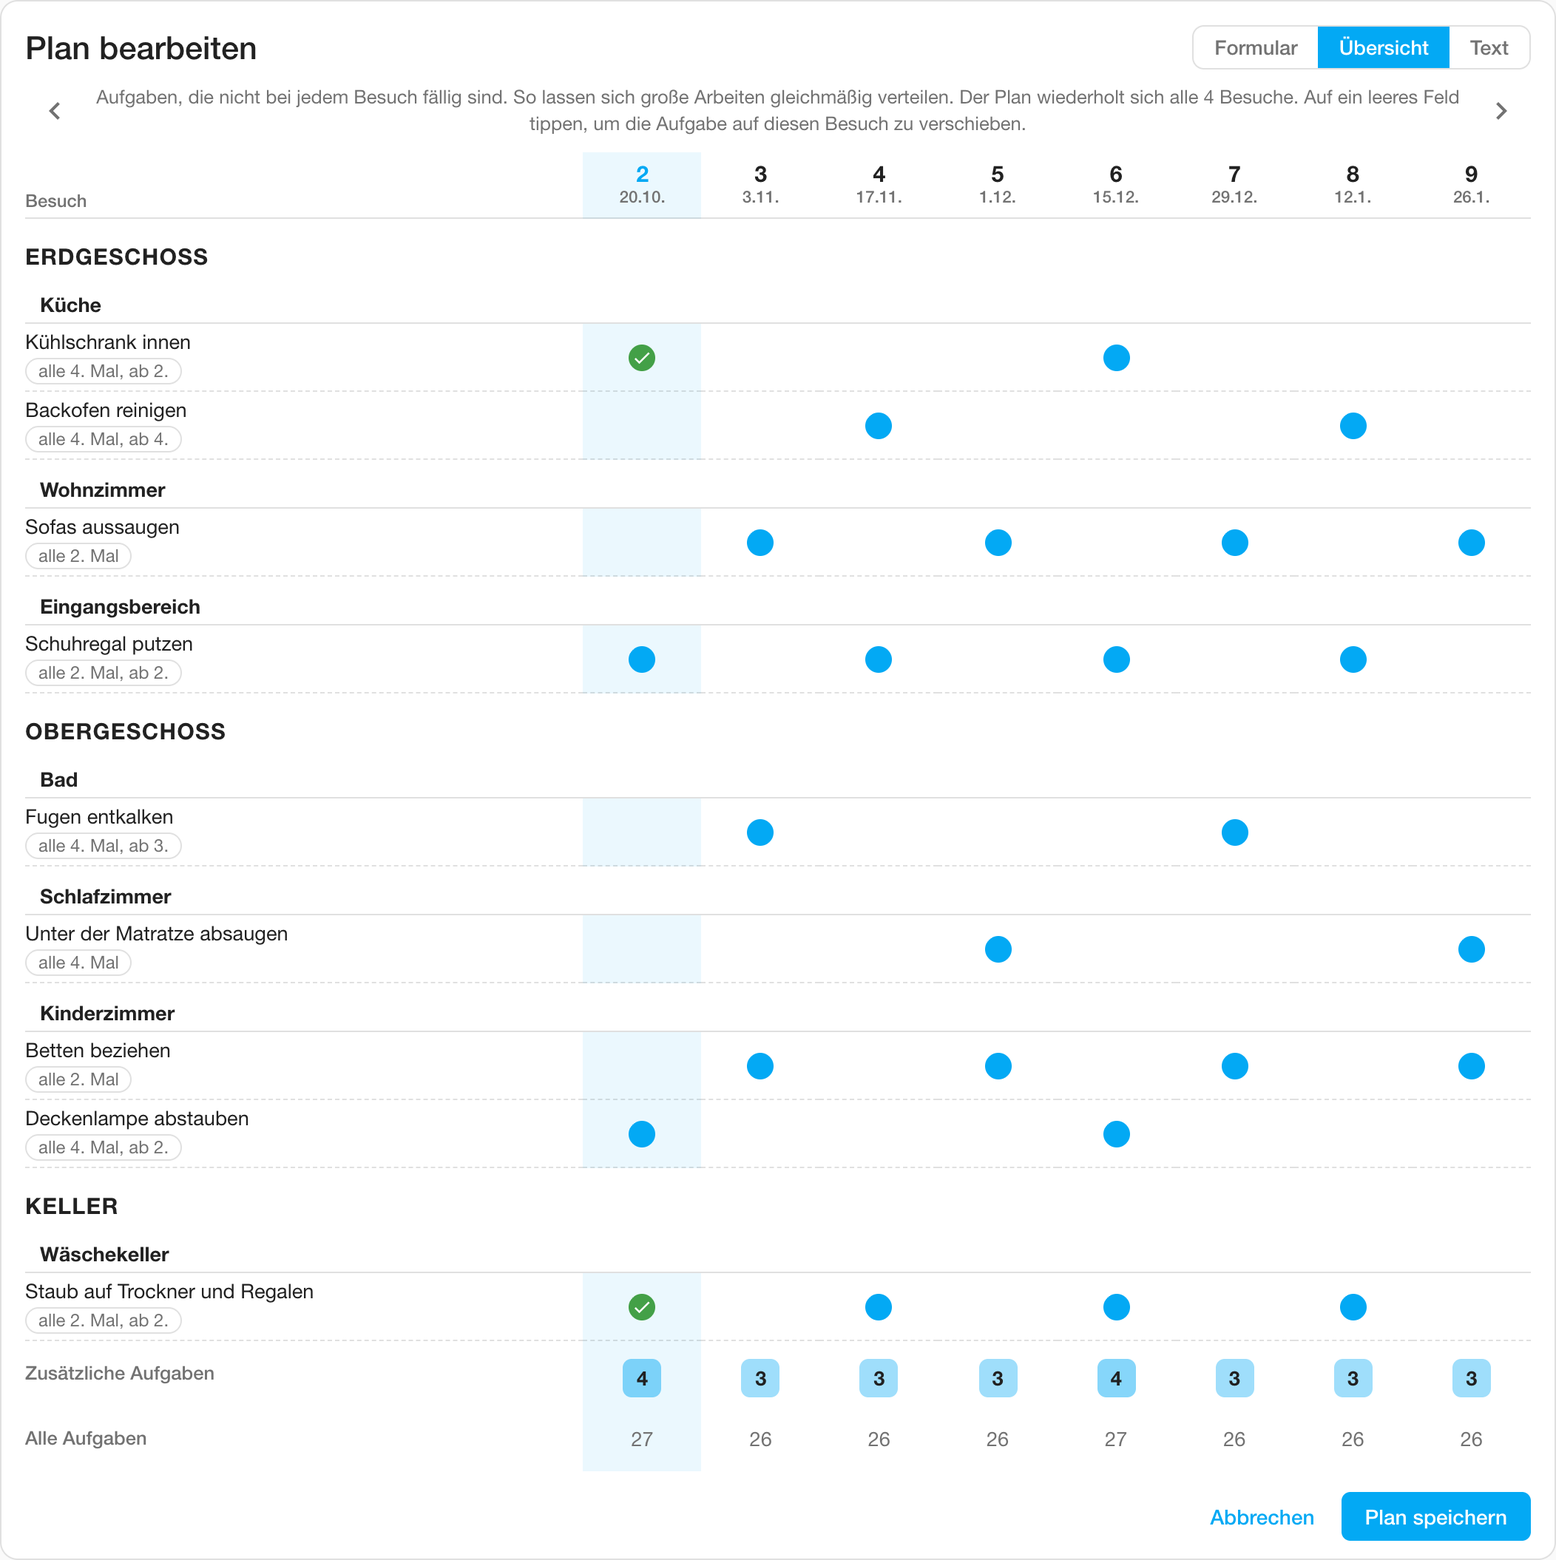
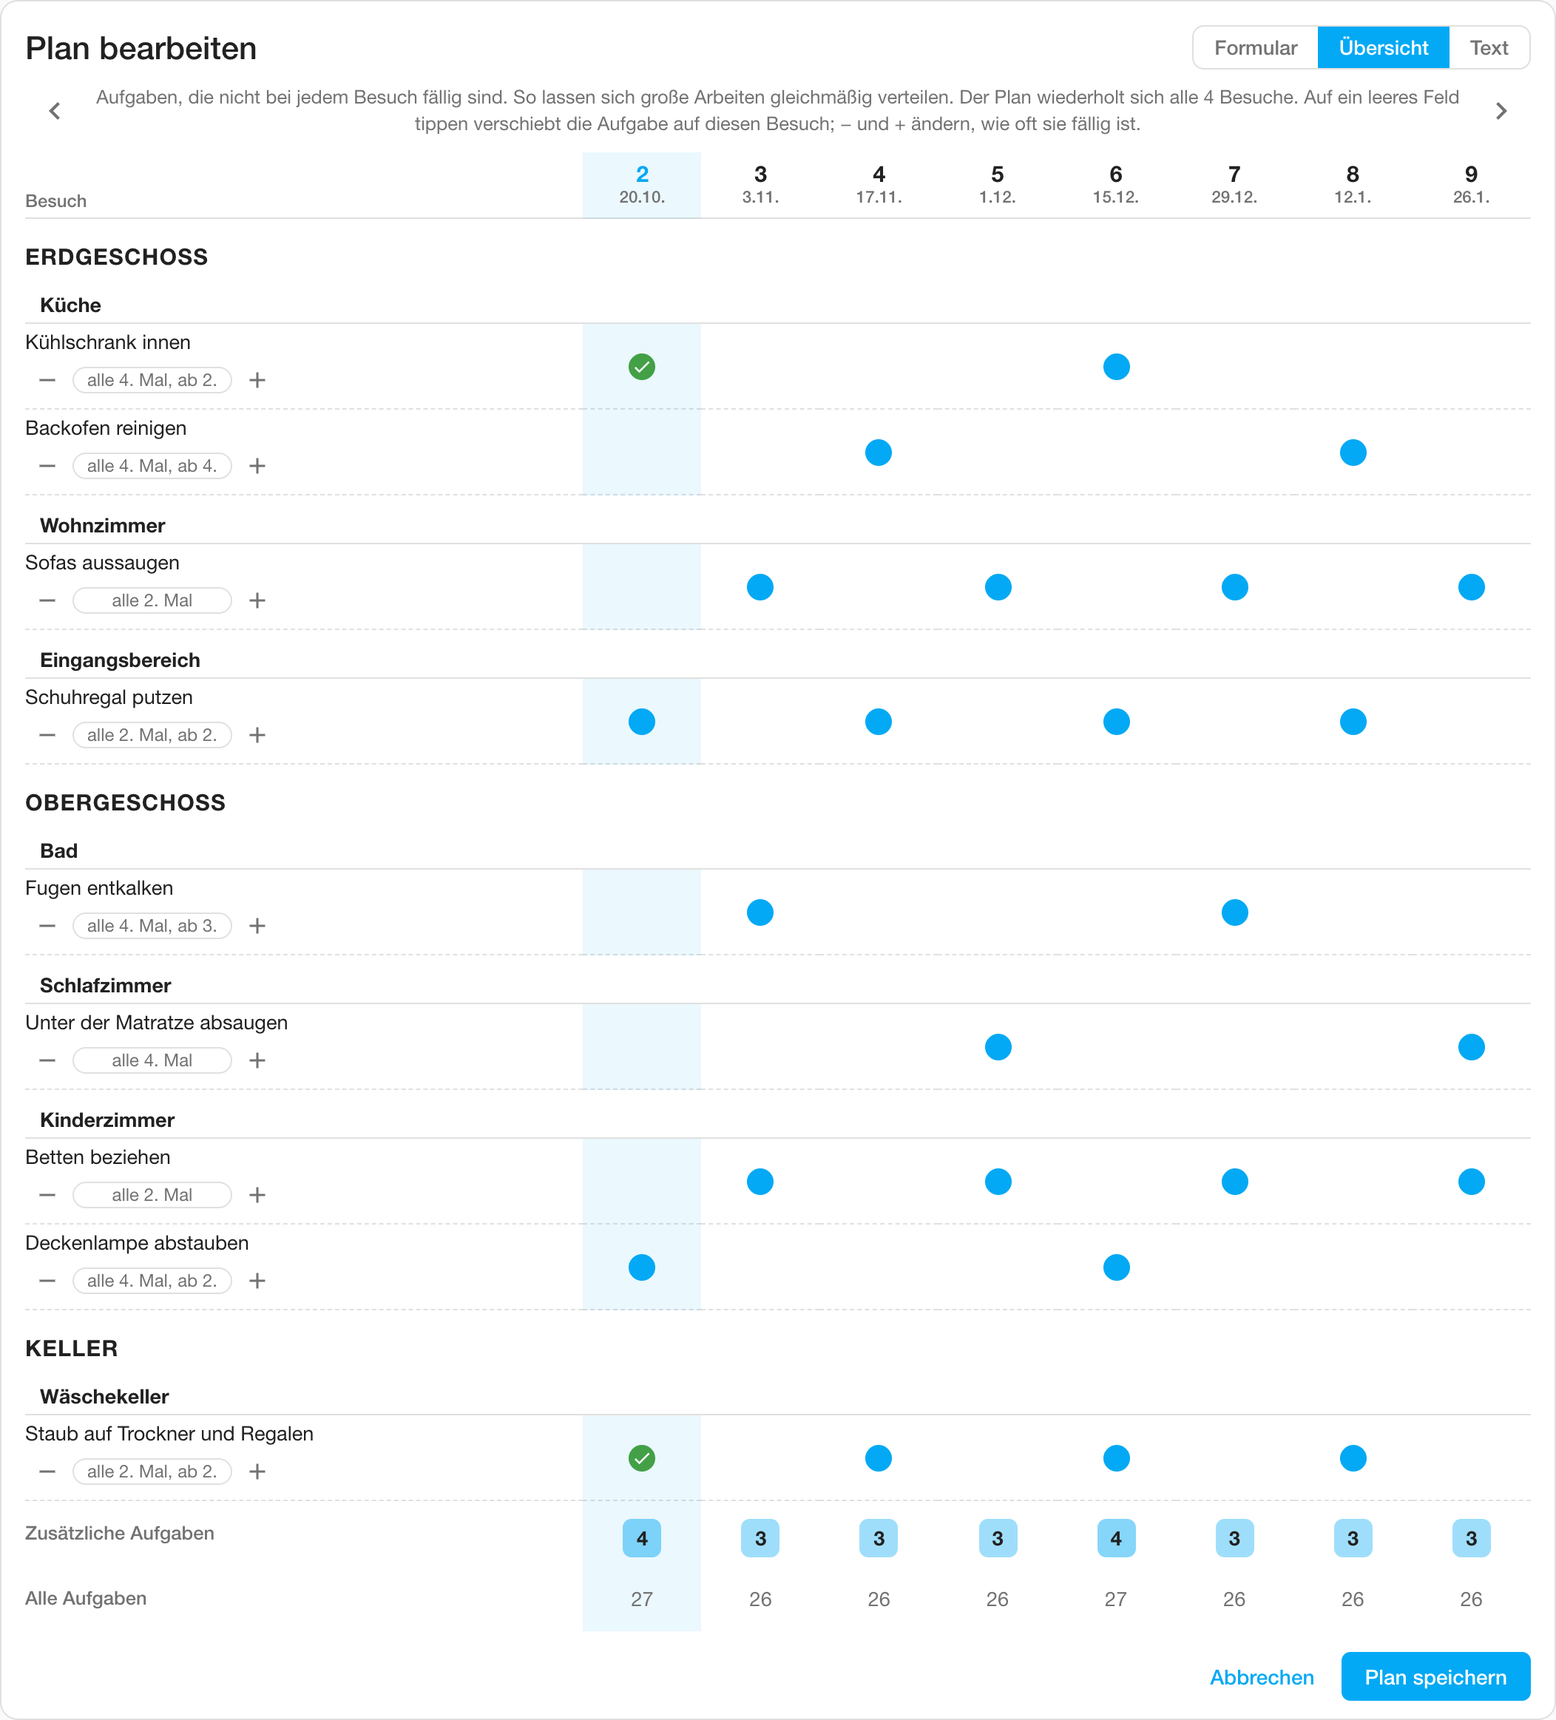
Planner interval buttons, fully folded list with saved fold state
Planner (Overview tab in the editor)
- − and + next to a task's frequency change its interval; the start
  visit
  is kept, dots, cycle and load rows update live
- Tasks changed there stay listed until the editor closes, even when set
  to every time ("jedes Mal, ab 2.")
- Household overview stays read-only

Tick-off list
- Opens fully folded, floors included
- Open floors and rooms are saved per plan in localStorage, so each
  device
  keeps its own state across reloads and visits; falls back to memory
  without storage
- Auto-fold on completion kept; collapse/expand all includes floors

Tests, README, screenshots, version 0.9.0

diff --git a/custom_components/cleaning_plan/frontend/cleaning-plan-card.js b/custom_components/cleaning_plan/frontend/cleaning-plan-card.js
@@ -19,7 +19,7 @@
  *   - Text: the raw plan text, validated on the server while typing.
  */
 
-const CARD_VERSION = "0.7.0";
+const CARD_VERSION = "0.9.0";
 const CARD_TYPE = "cleaning-plan-visit-card";
 const EDITOR_TYPE = "cleaning-plan-visit-card-editor";
 const WS = "cleaning_plan";
@@ -173,7 +173,9 @@ const STRINGS = {
     tabOverview: "Overview",
     back: "Back",
     ovIntro: "Tasks that are not due on every visit. Use this to spread heavy jobs evenly.",
-    ovEditHint: "Tap an empty cell to move that task's turn to this visit.",
+    ovEditHint: "Tap an empty cell to move that task's turn to this visit; − and + change how often it is due.",
+    ovMoreOften: "More often",
+    ovLessOften: "Less often",
     ovNone: "Every task is due on every visit. Set a task to \"every 2. visit\" or more to plan it here.",
     ovVisit: "Visit",
     ovExtra: "Extra tasks",
@@ -309,7 +311,9 @@ const STRINGS = {
     tabOverview: "Übersicht",
     back: "Zurück",
     ovIntro: "Aufgaben, die nicht bei jedem Besuch fällig sind. So lassen sich große Arbeiten gleichmäßig verteilen.",
-    ovEditHint: "Auf ein leeres Feld tippen, um die Aufgabe auf diesen Besuch zu verschieben.",
+    ovEditHint: "Auf ein leeres Feld tippen verschiebt die Aufgabe auf diesen Besuch; − und + ändern, wie oft sie fällig ist.",
+    ovMoreOften: "Öfter",
+    ovLessOften: "Seltener",
     ovNone: "Alle Aufgaben sind bei jedem Besuch fällig. Eine Aufgabe auf „alle 2. Mal“ oder mehr stellen, um sie hier zu planen.",
     ovVisit: "Besuch",
     ovExtra: "Zusätzliche Aufgaben",
@@ -365,7 +369,7 @@ const isoOf = (n) => numToDate(n).toISOString().slice(0, 10);
 const ISO_RE = /^\d{4}-\d{2}-\d{2}$/;
 
 const freqLabel = (task, t) => {
-  if (task.every === 1) return t.freqEvery;
+  if (task.every === 1) return task.from > 1 ? t.freqEvery + t.freqFrom(task.from) : t.freqEvery;
   const base = t.freqN(task.every);
   return task.from > 1 ? base + t.freqFrom(task.from) : base;
 };
@@ -581,7 +585,7 @@ const overviewCount = (locations) => Math.min(16, Math.max(8, cycleLength(locati
  * Returns the visits shown, their dates, the irregular tasks grouped by floor and location
  * with a due flag per visit, and per visit the count of irregular ("extra") and all tasks.
  */
-function buildOverview(plan, firstVisit, count) {
+function buildOverview(plan, firstVisit, count, keep = () => false) {
   const visits = Array.from({ length: count }, (_, i) => firstVisit + i);
   const extra = visits.map(() => 0);
   const total = visits.map(() => 0);
@@ -591,8 +595,8 @@ function buildOverview(plan, firstVisit, count) {
     for (const task of loc.tasks) {
       const due = visits.map((v) => isDue(task, v));
       due.forEach((d, i) => d && total[i]++);
-      if (!isIrregular(task)) continue;
-      due.forEach((d, i) => d && extra[i]++);
+      if (isIrregular(task)) due.forEach((d, i) => d && extra[i]++);
+      else if (!keep(task)) continue;
       rows.push({ task, due });
     }
     if (rows.length) groups.push({ floor: loc.floor || "", name: loc.name, rows });
@@ -614,10 +618,11 @@ class CleaningPlanVisitCard extends HTMLElement {
       this._busy = new Set(); // keys of ticks being saved
       this._data = null;
       this._error = null;
-      this._fold = {}; // "visit-iso|location" -> true (folded) / false (open); unset = folded
-      this._wasDone = {}; // "visit-iso|location" -> was fully done at the last render
+      // Open floors and rooms of the tick-off list; everything else is folded.
+      // Saved per plan in this browser's localStorage, see _loadOpen.
+      this._open = {};
+      this._wasDone = {}; // "visit-iso" + key -> was fully done at the last render
       this._visibleLocs = [];
-      this._floorFold = {}; // "visit-iso|F|floor" -> true when folded; floors start open
       this._visibleFloors = [];
       this._view = "list"; // "list" | "overview"
       this._ovShift = 0; // overview window, in pages of visits
@@ -712,6 +717,7 @@ class CleaningPlanVisitCard extends HTMLElement {
         entryId = plans[0].entry_id;
       }
       this._entryId = entryId;
+      this._loadOpen();
       const unsub = await this._hass.connection.subscribeMessage((msg) => this._onData(token, msg), {
         type: `${WS}/subscribe`,
         entry_id: entryId,
@@ -1077,7 +1083,12 @@ class CleaningPlanVisitCard extends HTMLElement {
       if (n && !window.confirm(this._t.confirmDeleteLoc(loc.name.trim(), n))) return;
       this._floor(fi).locations.splice(li, 1);
     } else if (act === "f-task-del") this._loc(fi, li).tasks.splice(ti, 1);
-    else if (act === "f-ov-set") {
+    else if (act === "f-ov-every") {
+      // Overview: change the interval; the start visit stays, so the next turn is kept where possible
+      const task = this._loc(fi, li).tasks[ti];
+      task.every = Math.min(99, Math.max(1, task.every + Number(el.dataset.delta)));
+      (ed.ovPinned ||= new Set()).add(task.id);
+    } else if (act === "f-ov-set") {
       // Overview: move the task's turn so it is due on visit v (same interval)
       const task = this._loc(fi, li).tasks[ti];
       task.from = ((Number(el.dataset.v) - 1) % task.every) + 1;
@@ -1110,15 +1121,14 @@ class CleaningPlanVisitCard extends HTMLElement {
     else if (act === "example") this._insertExample();
     else if (act === "save") this._savePlan();
     else if (act === "fold") {
-      this._fold[el.dataset.loc] = el.dataset.folded !== "1";
+      this._setOpen(el.dataset.loc, el.dataset.folded === "1");
       this._render();
     } else if (act === "fold-all") {
-      const to = el.dataset.to === "1";
-      this._visibleLocs.forEach((k) => (this._fold[k] = to));
-      if (!to) this._visibleFloors.forEach((k) => (this._floorFold[k] = false));
+      const open = el.dataset.to !== "1"; // data-to="1" means collapse
+      [...this._visibleFloors, ...this._visibleLocs].forEach((k) => this._setOpen(k, open));
       this._render();
     } else if (act === "ffold") {
-      this._floorFold[el.dataset.key] = !this._floorFold[el.dataset.key];
+      this._setOpen(el.dataset.key, !this._isOpen(el.dataset.key));
       this._render();
     } else if (act === "supply") this._toggleSupply(el);
     else if (act === "flag") this._openProblem(el);
@@ -1126,6 +1136,35 @@ class CleaningPlanVisitCard extends HTMLElement {
     else if (act === "p-cancel") ((this._pedit = null), this._render());
     else if (act === "p-send") this._sendProblem();
     else if (act === "p-withdraw" || act === "p-resolve") this._resolveProblem(el.dataset.id);
+  }
+
+  /* ----- fold state of the tick-off list, kept per plan in localStorage ----- */
+
+  get _openStorageKey() {
+    return `cleaning-plan-card.open.${this._entryId}`;
+  }
+
+  _loadOpen() {
+    try {
+      this._open = JSON.parse(window.localStorage.getItem(this._openStorageKey)) || {};
+    } catch (e) {
+      this._open = {}; // no storage (private mode, embedded views): fold state lives in memory
+    }
+  }
+
+  _isOpen(key) {
+    return this._open[key] === true;
+  }
+
+  _setOpen(key, open) {
+    if (open === this._isOpen(key)) return;
+    if (open) this._open[key] = true;
+    else delete this._open[key];
+    try {
+      window.localStorage.setItem(this._openStorageKey, JSON.stringify(this._open));
+    } catch (e) {
+      /* keep it in memory */
+    }
   }
 
   /* ----- rendering ----- */
@@ -1251,22 +1290,24 @@ class CleaningPlanVisitCard extends HTMLElement {
         floor,
         name: loc.name.trim(),
         tasks: loc.tasks
-          .map((k, ti) => ({ name: k.name.trim(), every: k.every, from: k.from, ref: { fi, li, ti } }))
+          .map((k, ti) => ({ name: k.name.trim(), every: k.every, from: k.from, ref: { fi, li, ti, id: k.id } }))
           .filter((k) => k.name && ok(k.every) && ok(k.from)),
       })),
     };
     const today = isoToNum((this._data && this._data.today) || isoOf(Math.floor(Date.now() / 86400000)));
     const diff = today - plan.start;
     const current = diff <= 0 ? 1 : Math.ceil(diff / plan.rhythm) + 1;
-    return this._overviewHTML(plan, current, today, this._ed.ovShift || 0, true);
+    // Tasks whose interval was changed here stay in the table, even when set to "every time"
+    const pinned = this._ed.ovPinned || new Set();
+    return this._overviewHTML(plan, current, today, this._ed.ovShift || 0, true, (task) => pinned.has(task.ref.id));
   }
 
-  _overviewHTML(plan, current, today, shift, editable) {
+  _overviewHTML(plan, current, today, shift, editable, keep) {
     const t = this._t;
     const count = overviewCount(plan.locations);
     const cycle = cycleLength(plan.locations);
     const first = Math.max(1, current + shift * count);
-    const ov = buildOverview(plan, first, count);
+    const ov = buildOverview(plan, first, count, keep);
     if (!ov.groups.length) return `<div class="msg">${esc(t.ovNone)}</div>`;
 
     const doneSet = new Set();
@@ -1311,8 +1352,20 @@ class CleaningPlanVisitCard extends HTMLElement {
                 return `<td class="${colCls(i)}"></td>`;
               })
               .join("");
+            const freq = `<span class="freq">${esc(freqLabel(task, t))}</span>`;
+            const refs = task.ref ? `data-fi="${task.ref.fi}" data-li="${task.ref.li}" data-ti="${task.ref.ti}"` : "";
+            const stepper =
+              editable && task.ref
+                ? `<span class="ov-every">
+                    <button class="icon mini" data-act="f-ov-every" data-delta="-1" ${refs} ${task.every <= 1 ? "disabled" : ""}
+                            aria-label="${esc(`${task.name}: ${t.ovMoreOften}`)}" title="${esc(t.ovMoreOften)}">${MINUS}</button>
+                    ${freq}
+                    <button class="icon mini" data-act="f-ov-every" data-delta="1" ${refs} ${task.every >= 99 ? "disabled" : ""}
+                            aria-label="${esc(`${task.name}: ${t.ovLessOften}`)}" title="${esc(t.ovLessOften)}">${PLUS_S}</button>
+                  </span>`
+                : freq;
             return `<tr><th scope="row" class="ov-task">
-                <span class="ov-name">${esc(task.name)}</span><span class="freq">${esc(freqLabel(task, t))}</span>
+                <span class="ov-name">${esc(task.name)}</span>${stepper}
               </th>${cells}</tr>`;
           })
           .join("");
@@ -1547,7 +1600,6 @@ class CleaningPlanVisitCard extends HTMLElement {
 
     let total = 0;
     let ticked = 0;
-    let anyOpen = false;
     this._visibleLocs = [];
     this._visibleFloors = [];
     // floor -> { sections: [html], ticked, total }, in plan order
@@ -1556,19 +1608,20 @@ class CleaningPlanVisitCard extends HTMLElement {
       const due = loc.tasks.filter((k) => visit >= k.from && (visit - k.from) % k.every === 0);
       if (!due.length) continue;
       const floor = loc.floor || "";
-      const locKey = `${iso}|${floor}|${loc.name}`;
+      // Keys don't contain the visit, so the fold state carries over to the next visit
+      const locKey = JSON.stringify(["L", floor, loc.name]);
       this._visibleLocs.push(locKey);
       const keyed = due.map((task) => ({ task, isDone: done.has(`${floor}|${loc.name}|${task.name}`) }));
       const locTicked = keyed.filter((k) => k.isDone).length;
       total += keyed.length;
       ticked += locTicked;
       const locDone = locTicked === keyed.length;
-      // Locations start folded. When one becomes fully done, drop any manual
-      // "open" override so it folds again; a tap on the header reopens it.
-      if (locDone && !this._wasDone[locKey]) delete this._fold[locKey];
-      this._wasDone[locKey] = locDone;
-      const folded = locKey in this._fold ? this._fold[locKey] : true;
-      if (!folded) anyOpen = true;
+      // Rooms start folded. When one becomes fully done it folds again;
+      // a tap on the header reopens it.
+      const doneKey = iso + locKey;
+      if (locDone && !this._wasDone[doneKey]) this._setOpen(locKey, false);
+      this._wasDone[doneKey] = locDone;
+      const folded = !this._isOpen(locKey);
       const rows = folded
         ? ""
         : keyed
@@ -1614,13 +1667,13 @@ class CleaningPlanVisitCard extends HTMLElement {
         body += columns(group.sections.join(""));
         continue;
       }
-      // Floors start open and fold by themselves once all their tasks are done
-      const fKey = `${iso}|F|${floor}`;
+      // Floors start folded too, and fold by themselves once all their tasks are done
+      const fKey = JSON.stringify(["F", floor]);
       this._visibleFloors.push(fKey);
       const fDone = group.ticked === group.total;
-      if (fDone && !this._wasDone[fKey]) this._floorFold[fKey] = true;
-      this._wasDone[fKey] = fDone;
-      const folded = this._floorFold[fKey] === true;
+      if (fDone && !this._wasDone[iso + fKey]) this._setOpen(fKey, false);
+      this._wasDone[iso + fKey] = fDone;
+      const folded = !this._isOpen(fKey);
       body += `<div class="floor ${folded ? "folded" : ""} ${fDone ? "floor-done" : ""}">
           <button class="floor-head" data-act="ffold" data-key="${esc(fKey)}" aria-expanded="${!folded}">
             <span class="chev">${CHEV_D}</span>
@@ -1631,6 +1684,9 @@ class CleaningPlanVisitCard extends HTMLElement {
         </div>`;
     }
 
+    // Something is visibly open: a floor, or a room outside the floors
+    const noFloorLocs = this._visibleLocs.filter((k) => JSON.parse(k)[1] === "");
+    const anyOpen = [...this._visibleFloors, ...noFloorLocs].some((k) => this._isOpen(k));
     const date = formatDate(this._hass, vDay);
     const rel =
       vDay === today ? t.today : vDay === today + 1 ? t.tomorrow : vDay > today ? t.inDays(vDay - today) : t.daysAgo(today - vDay);
@@ -1657,7 +1713,7 @@ class CleaningPlanVisitCard extends HTMLElement {
       </div>
       <div class="count">
         ${
-          this._visibleLocs.length > 1
+          this._visibleLocs.length > 1 || this._visibleFloors.length
             ? `<button class="flat small" data-act="fold-all" data-to="${anyOpen ? 1 : 0}">${esc(anyOpen ? t.collapseAll : t.expandAll)}</button>`
             : "<span></span>"
         }
@@ -1850,6 +1906,8 @@ const DELETE = svg("M6 19a2 2 0 0 0 2 2h8a2 2 0 0 0 2-2V7H6zM8 9h8v10H8zm7.5-5-1
 const FLAG = svg("M12.36 6l.4 2H18v6h-3.36l-.4-2H7V6h5.36M14 4H5v17h2v-7h5.6l.4 2h7V6h-5.6z", 20);
 const FLAG_ON = svg("M14.4 6 14 4H5v17h2v-7h5.6l.4 2h7V6z", 20);
 const ALERT = svg("M13 14h-2V9h2m0 9h-2v-2h2M1 21h22L12 2z", 16);
+const MINUS = svg("M19 13H5v-2h14z", 18);
+const PLUS_S = svg("M19 13h-6v6h-2v-6H5v-2h6V5h2v6h6z", 18);
 const PLUS = svg("M19 13h-6v6h-2v-6H5v-2h6V5h2v6h6z", 20);
 
 const STYLE = `
@@ -1966,6 +2024,9 @@ const STYLE = `
   .ov-task { font-weight: 400; color: var(--primary-text-color); }
   .ov-name { display: block; line-height: 1.25; }
   .ov-task .freq { display: inline-block; margin-top: 2px; }
+  .ov-every { display: inline-flex; align-items: center; gap: 2px; margin-top: 2px; }
+  .ov-every .freq { margin-top: 0; min-width: 7.5em; text-align: center; }
+  .icon.mini { width: 30px; height: 30px; }
   .ov-loc th { font-weight: 600; color: var(--primary-text-color); padding-top: 12px !important; height: auto;
                border-bottom: 1px solid var(--divider-color); }
   .ov-floor th { font-weight: 700; font-size: 0.95rem; color: var(--primary-text-color); padding-top: 16px !important;

diff --git a/README.md b/README.md
@@ -50,8 +50,8 @@ The card also has a visual editor. Find it as "Cleaning plan" in the card picker
 
 How the card behaves:
 
-- **Floors.** With floors in the plan, each floor gets a header with its done count, and its locations are listed below it. A floor folds by itself when all its tasks are done, and a tap on the header opens or closes it.
-- **Locations start folded.** Each header shows its name and how many tasks are ticked. Tap to open. A location folds again when its last task is ticked. "Collapse all" / "Expand all" sits above the list.
+- **Floors.** With floors in the plan, each floor gets a header with its done count, and its rooms are listed below it. A floor folds by itself when all its tasks are done, and a tap on the header opens or closes it.
+- **Opens fully folded.** On first use, floors and rooms are all folded. Each header shows how many tasks are ticked, and a tap opens it. What you open or close is remembered per plan in this browser, so the cleaner's tablet and your phone each keep their own state, also across visits and reloads. A room folds again when its last task is ticked. "Collapse all" / "Expand all" sits above the list and includes floors.
 - **Width.** In a sections view the card asks for the full row width. In a masonry view, use a panel view for a wide card.
 - **Language and dates** follow the user's Home Assistant profile. German and English are built in, other languages fall back to English.
 - **Live updates.** Ticks from another device appear immediately. The card gets pushed updates instead of polling.
@@ -71,7 +71,7 @@ In the household view, "Overview" next to "Edit plan" opens a table of the tasks
 - **Columns** are visits, with visit number and date. The current visit is highlighted and past visits are dimmed. The table shows at least one full repeat cycle of the plan, between 8 and 16 visits. The arrows page through further visits.
 - **Rows** are the irregular tasks, grouped by floor and location, with their frequency. A dot marks each visit where a task is due, and a green check marks a visit where it was done.
 - **Load rows.** "Extra tasks" counts the irregular tasks per visit, shaded darker on heavy visits. "All tasks" counts everything due. Use them to see whether big jobs pile up on the same visit.
-- **Moving a task in the editor.** In the editor tab the table follows unsaved changes. Tapping an empty cell moves that task's turn to this visit, keeping its interval. The change is saved with "Save plan".
+- **Planning in the editor.** In the editor's Overview tab the table follows unsaved changes. Tapping an empty cell moves that task's turn to this visit, keeping its interval. The − and + buttons next to a task's frequency change its interval, keeping its start visit. A task you change there stays in the table until you leave the editor, even if you set it to every time. Changes are saved with "Save plan".
 
 The cleaner view has no overview.
 
